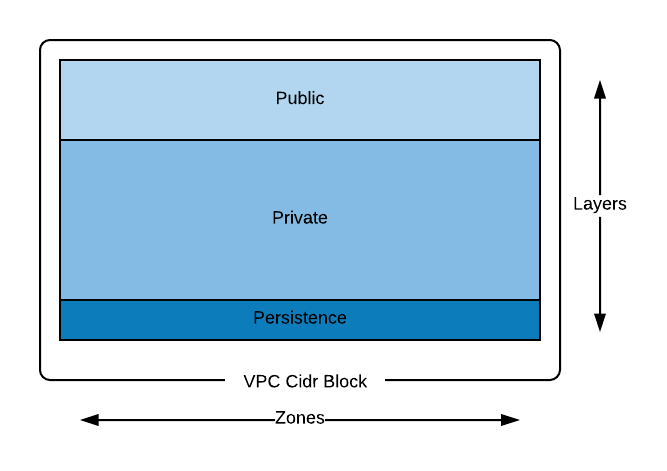
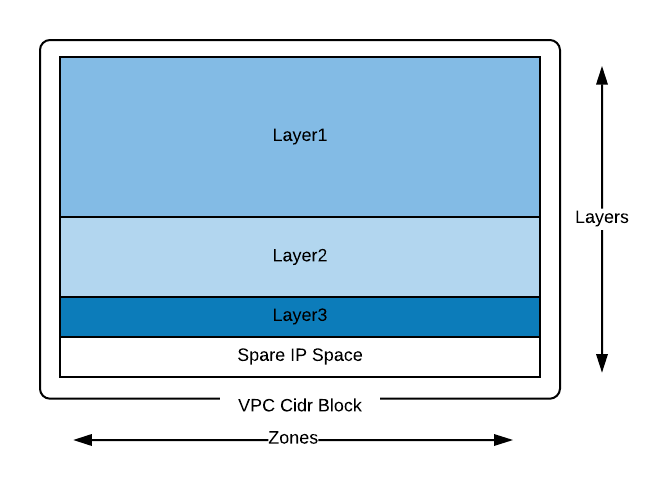
changing the output data structure

diff --git a/calculator.py b/calculator.py
@@ -8,9 +8,10 @@ CidrBlockCalculation:
     Properties:
         ServiceToken: ARN for the lambda function, SubnetCidrCalculator
         VpcCidrBlock: Cidr Block 
-        Layers: List of names for the network layers
-        Zones: Number of AZ to be used
-The number of zones have to lie between 2 and 4 inclusive.
+        Layers: Number of network layers to be used
+        ZonesRequired: Number of AZ to be used
+        
+The number of zones have to lie between 1 and 4 inclusive.
 
 Example:
 CidrBlockCalculation:
@@ -18,23 +19,20 @@ CidrBlockCalculation:
     Properties:
         ServiceToken: !Sub arn:aws:lambda:${AWS::Region}:${AWS::AccountId}:function:SubnetCidrCalculator
         VpcCidrBlock: 10.0.0.0/16
-        Layers: [public, private]
-        Zones: 3
-
+        Layers: 2
+        ZonesRequired: 2
+        
 Author: Steve Hodson
 Date: Jan 2019
 
-To Test use:
+To test in the AWS Management Console use:
 {
   "StackId": "arn:aws:cloudformation:eu-west-1:EXAMPLE/stack-name/guid",
   "ResponseURL": "http://pre-signed-S3-url-for-response",
   "ResourceProperties": {
     "VpcCidrBlock": "10.0.0.0/16",
-    "Zones": "2",
-    "Layers": [
-        "public",
-        "private"
-        ]
+    "ZonesRequired": "2",
+    "Layers": "2"
   },
   "RequestType": "Create",
   "ResourceType": "Custom::TestResource",
@@ -56,16 +54,20 @@ FAILED = "FAILED"
 PHYSICAL_RESOURCE_ID = f"SubnetCidrCalculator-{uuid.uuid1()}"
 
 logger = logging.getLogger()
-logger.level(logging.INFO)
 
 def handler(event, context):
     '''
     Creates a dictionary of cidr block values to be used by the 
     calling CFN stack.  This handler is only used when the 
-    stack is in a 'Create' mode.  Once the dictionary of 
-    cidr blocks has been created it is passed back to the 
-    calling stack.
-
+    stack is in a 'Create' mode.  The following data structure will be
+    sent back to CFN:
+    [
+    'Layer1': '<CIDR Block of layer>,<zone1 cidr>,<zone1 cidr>,...',
+    'Layer2': '<CIDR Block of layer>,<zone1 cidr>,<zone1 cidr>,...',
+    ...
+    ]
+    Where the sizes of the layers will be half of the preceeding one.
+    
     Parameters
     ----------
     event: aws lambda event object
@@ -80,9 +82,9 @@ def handler(event, context):
     response_data = {}
     properties = event.get("ResourceProperties", {})
     network_cidr = properties["VpcCidrBlock"]
-    network_layers = properties["Layers"]
-    availability_zones = int(properties["Zones"])
-
+    network_layers = int(properties["Layers"])
+    availability_zones = int(properties["ZonesRequired"])
+    
     # get the network address for a given network_cidr
     nw = IPNetwork(network_cidr)
     # check the minimum and maximum prefixes allowed by AWS VPC
@@ -91,7 +93,7 @@ def handler(event, context):
     # check the parameters
     params = {
         'cidr_prefix': cidr_prefix,
-        'layers_len': len(network_layers),
+        'layers': network_layers,
         'availability_zones': availability_zones
         }
     try:
@@ -111,13 +113,12 @@ def handler(event, context):
     az_modifier = math.ceil(math.log(availability_zones)/math.log(2))
     
     try:
-        for i, layer in enumerate(network_layers, 1):
-            tmp_prefix = cidr_prefix + i
+        for layer_index in range(1,network_layers+1):
+            tmp_prefix = cidr_prefix + layer_index
             network_by_layer = list(network.subnet(tmp_prefix))
-            response_data[layer] = str(network_by_layer[0])
             network = network_by_layer[1]
             network_by_az = list(network_by_layer[0].subnet(tmp_prefix+az_modifier))
-            response_data[f"{layer}List"] = ",".join([str(nw) for nw in network_by_az])
+            response_data[f"layer{layer_index}"] = str(network_by_layer[0]) + "," + ",".join([str(nw) for nw in network_by_az])
     except Exception as ex:
         logger.error(ex)
         return send_response(
@@ -125,16 +126,16 @@ def handler(event, context):
             reason=f"{ex.__class__.__name__}: {ex}"
             )
 
-    logger.info(response_data)
+    print(response_data)
     return send_response(event, context, SUCCESS, response_data=response_data)
 
 def check_parameters(**params):
     if (params['cidr_prefix'] < 16 or params['cidr_prefix'] > 28):
         raise ValueError('Illegal prefix number used.  Please use a number between 16 and 28 inclusive')
-    if (params['layers_len'] < 2 or params['layers_len'] > 5):
-        raise ValueError('Illegal number of network layers used.  Please use a list containing between 2 and 5 layers inclusive')
+    if (params['layers'] < 1 or params['layers'] > 4):
+        raise ValueError('Illegal number of network layers used.  Please use a list containing between 1 and 4 layers inclusive')
     if (params['availability_zones'] < 1 or params['availability_zones'] > 4):
-        raise ValueError('Illegal number of availbility zones used.  Please use a number between 2 and 4 inclusive')
+        raise ValueError('Illegal number of availability zones used.  Please use a number between 1 and 4 inclusive')
 
 def send_response(event, context, response_status, response_data=None, reason=None):
     """This function will wrap a response into a json object and send back to 

diff --git a/README.md b/README.md
@@ -10,15 +10,20 @@ Here an example of a VPC with three layers; note the relative sizes of the boxes
 This function requires the following parameters:
 * VpcCidrBlock - a string defining the CIDR block used by the VPC e.g. 10.0.0.0/24
 * Zones - number of availability zones that the VPC will span.
-* Layers - list of names of the functional layers of the VPC.
-
-NB The order of the Layers is important with the first mentioned getting the largest share of the IP allocation.
+* Layers - number of functional layers that the VPC will have.
 
 ## Output
-The output from this function will be a dictionary object containing the calculated CIDR blocks for the functional layers and comma delimited lists 
-For example here is the output from a CIDR calculation for a VPC (cidr_block=10.0.0.0/16, zones=3 and layers="public,private"
+The output from this function will be a dictionary object containing comma delimited lists of CIDR blocks for each network layer.
 ```sh
-{'public': '10.0.0.0/17', 'publicList': '10.0.0.0/19,10.0.32.0/19,10.0.64.0/19,10.0.96.0/19', 'private': '10.0.128.0/18', 'privateList': '10.0.128.0/20,10.0.144.0/20,10.0.160.0/20,10.0.176.0/20'}
+[
+  'Layer1': '<CIDR Block of layer>,<zone1 cidr>,<zone1 cidr>,...',
+  'Layer2': '<CIDR Block of layer>,<zone1 cidr>,<zone1 cidr>,...',
+  ...
+]
+```
+For example here is the output from a CIDR calculation for a VPC (cidr_block=10.0.0.0/16, zones=2 and layers=2
+```sh
+{'layer1': '10.0.0.0/17,10.0.0.0/18,10.0.64.0/18', 'layer2': '10.0.128.0/18,10.0.128.0/19,10.0.160.0/19'}
 ```
 This output is then to be used within your cloudformation subnet creation stacks.
 ## Use in Cloudformation
@@ -44,11 +49,8 @@ This can be tested in the AWS MAnagement Console using the following json:
   "ResponseURL": "http://pre-signed-S3-url-for-response",
   "ResourceProperties": {
     "VpcCidrBlock": "10.0.0.0/16",
-    "Zones": "2",
-    "Layers": [
-        "public",
-        "private"
-        ]
+    "ZonesRequired": "2",
+    "Layers": "2"
   },
   "RequestType": "Create",
   "ResourceType": "Custom::TestResource",
@@ -56,7 +58,7 @@ This can be tested in the AWS MAnagement Console using the following json:
   "LogicalResourceId": "MyTestResource"
 }
 ```
-Note: Number of zones supported is between 1 and 5 and whilst the solution itself won;t break at higher values it will prove wasteful as AWS has at most 5 AZs per region.
+Note: Number of zones supported is between 1 and 4 and whilst the solution itself won't break at higher values it will prove wasteful as AWS has at most 4 AZs per region.
 ## Permissions
 The lambda function uses the BasicExecutionRole which accesses CloudWatch only.
 ## License
